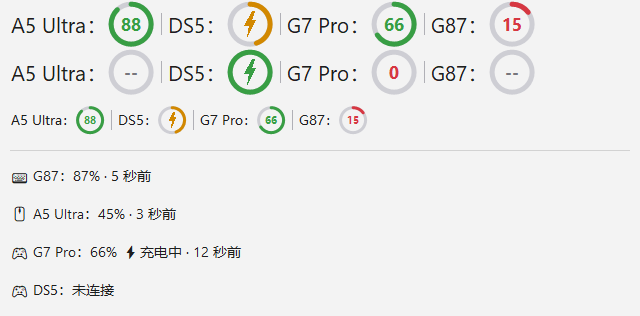
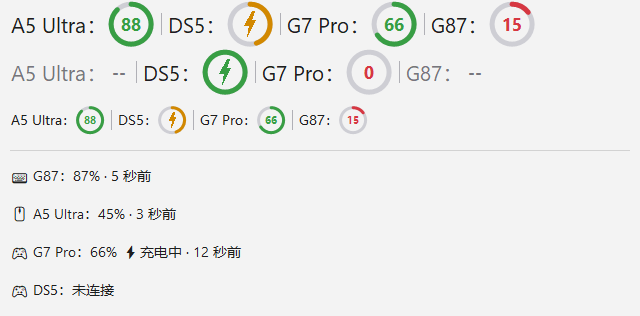
未连接设备不画圆环并置灰名称，收紧 -- 间距

Changed region(s): [[0.0, 0.1424, 0.8438, 0.3133]]

diff --git a/src/plugin/BatteryDraw.h b/src/plugin/BatteryDraw.h
@@ -5,8 +5,8 @@
 //  - 圆环用 GDI+ 抗锯齿绘制（连续曲率，无锯齿），按比例顺时针描弧
 //  - 配色：≥60% 绿 / 20~59% 黄 / <20% 红（淡灰轨道）
 //  - 百分比加粗画在圆环内孔中央（不显示 %）；充电时环内改画 ⚡
-//  - 无读数 / 未连接 → 空圆环 + --（所有设备一致）
-//  - 圆环直径固定，读数 / 充电切换不引起任务栏宽度抖动
+//  - 无读数 / 未连接 → 不画圆环，只显示 --（所有设备一致）
+//  - 有读数时圆环直径固定，读数 / 充电切换不引起宽度抖动；未连接时数值区收窄为 --
 // ============================================================
 #include <windows.h>
 #include <gdiplus.h>
@@ -153,6 +153,7 @@ struct SegMetrics
     int gap_colon = 1;  // 中文冒号自带右侧留白，后面只补很小间距
     int name_w = 0;     // 名称宽
     int colon_w = 0;    // 名称后冒号宽
+    int value_w = 0;    // 数值区宽：有读数时 = 圆环直径，未连接时 = -- 文本宽
     int total = 0;      // 段总宽
 };
 
@@ -165,7 +166,8 @@ inline SegMetrics MeasureSeg(HDC hdc, const DeviceDisplay& d)
     s.colon_w = TextW(hdc, L"：");
     s.ring = RingSize(hdc);
     s.num = NumSize(hdc, s.ring);
-    s.total = s.name_w + s.colon_w + s.gap_colon + s.ring.dia;
+    s.value_w = d.percent >= 0 ? s.ring.dia : TextW(hdc, L"--") + 4;
+    s.total = s.name_w + s.colon_w + s.gap_colon + s.value_w;
     return s;
 }
 
@@ -295,8 +297,8 @@ inline void DrawRing(HDC dc, int cx, int cy, const RingMetrics& rm, int percent,
     SelectObject(dc, ob);
 }
 
-// 百分比画在圆环内孔中央（不显示 %）：数值等宽居中，读数变化不抖动
-inline void DrawPercent(HDC dc, int ring_cx, int y, int h, const RingMetrics& rm,
+// 百分比画在数值区中央（不显示 %）：数值等宽居中，读数变化不抖动
+inline void DrawPercent(HDC dc, int x, int y, int h, int box_w,
                         const NumMetrics& nm, int percent, bool dark)
 {
     wchar_t buf[8];
@@ -311,7 +313,7 @@ inline void DrawPercent(HDC dc, int ring_cx, int y, int h, const RingMetrics& rm
 
     HFONT nf = MakeFont(dc, nm.num_h, FW_BOLD);
     HGDIOBJ of = SelectObject(dc, nf);
-    RECT rd{ ring_cx - rm.dia / 2, y, ring_cx + (rm.dia + 1) / 2, y + h };
+    RECT rd{ x, y, x + box_w, y + h };
     DrawTextW(dc, s, -1, &rd, DT_CENTER | DT_VCENTER | DT_SINGLELINE | DT_NOPREFIX);
     SelectObject(dc, of);
     DeleteObject(nf);
@@ -355,8 +357,8 @@ inline void DrawSegments(HDC dc, int x, int y, int w, int h, bool dark,
             cx += kSepW;
         }
 
-        // 名称: （与任务栏文字同色）
-        SetTextColor(dc, text_col);
+        // 名称: （未连接时与 -- 一起弱化）
+        SetTextColor(dc, d.percent >= 0 ? text_col : muted_col);
         {
             RECT rcName{ cx, y, cx + m.name_w + 2, y + h };
             DrawTextW(dc, d.name, -1, &rcName, DT_LEFT | DT_VCENTER | DT_SINGLELINE | DT_NOPREFIX);
@@ -366,18 +368,25 @@ inline void DrawSegments(HDC dc, int x, int y, int w, int h, bool dark,
         }
         int value_x = cx + m.name_w + m.colon_w + m.gap_colon;
 
-        // 电量圆环：充电时环内画 ⚡ 替代数字，否则画百分比
-        int ring_cx = value_x + m.ring.dia / 2;
-        DrawRing(dc, ring_cx, cy, m.ring, d.percent, dark);
-        if (d.charging && d.percent >= 0)
+        // 电量圆环：充电时环内画 ⚡ 替代数字，否则画百分比；未连接不画环、数值区收窄
+        if (d.percent >= 0)
         {
-            BoltMetrics b = BoltSize(m.ring);
-            DrawBolt(dc, ring_cx - b.w / 2, cy - b.h / 2, b.w, b.h,
-                     LevelColor(d.percent, dark));
+            const int ring_cx = value_x + m.ring.dia / 2;
+            DrawRing(dc, ring_cx, cy, m.ring, d.percent, dark);
+            if (d.charging)
+            {
+                BoltMetrics b = BoltSize(m.ring);
+                DrawBolt(dc, ring_cx - b.w / 2, cy - b.h / 2, b.w, b.h,
+                         LevelColor(d.percent, dark));
+            }
+            else
+            {
+                DrawPercent(dc, value_x, y, h, m.ring.dia, m.num, d.percent, dark);
+            }
         }
         else
         {
-            DrawPercent(dc, ring_cx, y, h, m.ring, m.num, d.percent, dark);
+            DrawPercent(dc, value_x, y, h, m.value_w, m.num, d.percent, dark);
         }
 
         cx += m.total;

diff --git a/README.md b/README.md
@@ -21,7 +21,7 @@
 - **充电指示**：充电中圆环内改画 ⚡（不显示数字，颜色跟随电量色）
 - **状态区分**：
   - 正常：圆环按电量比例描弧，电量数字（无百分号）以电量色显示在环内
-  - 暂无读数 / 未连接（含手柄关机/断开）：空环 + 弱化灰 `--`，所有设备一致
+  - 暂无读数 / 未连接（含手柄关机/断开）：不画圆环，设备名与 `--` 一起弱化，所有设备一致
 - **自绘适配**：圆环尺寸随任务栏字体缩放（DPI 自适应），文字绘制与 TrafficMonitor 自带条目同一基线，深浅色任务栏自动适配
 - **悬停详情**：鼠标悬停查看每设备一行式详情「图标 型号：电量 · 更新时间」，充电时带 ⚡充电中
 
